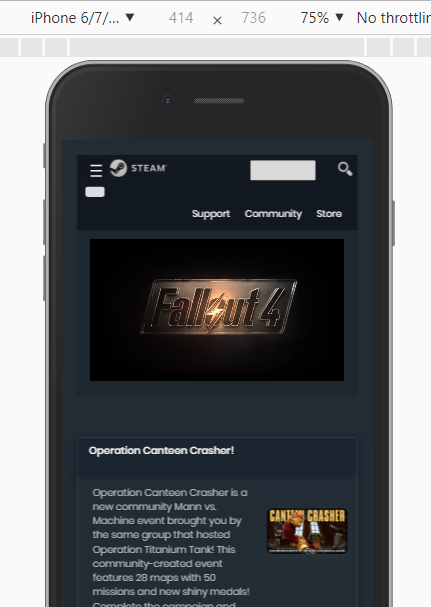
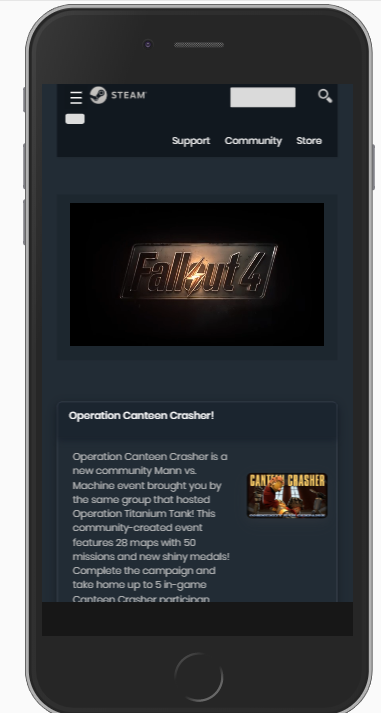
se resolvio y escribieron pruebas unitarias, se aumento responsive de lupa y agrego imagenes al readme

diff --git a/test/data.spec.js b/test/data.spec.js
@@ -2,62 +2,71 @@ require('../src/data.js');
 
 const dataSTEAM = [
       {
-        "gid": "3316234163932872071",
         "title": "Operation Canteen Crasher!",
-        "url": "https://steamstore-a.akamaihd.net/news/externalpost/tf2_blog/3316234163932872071",
-        "img": "https://steamcdn-a.akamaihd.net/steam/news/46099/canteen_crasher_event.jpg?t=1496190709",
-        "is_external_url": true,
         "author": "",
         "contents": "<a href=\"https://steamcommunity.com/groups/potatomvmservers#announcements/detail/2533733726690659777\"> </a> <a href=\"https://steamcommunity.com/groups/potatomvmservers#announcements/detail/2533733726690659777\" target=\"_blank\">Operation Canteen Crasher</a> is a new community Mann vs. Machine event brought you by the same group that hosted <a href=\"https://steamcommunity.com/groups/potatomvmservers#announcements/detail/1663388904536296299\" target=\"_blank\">Operation Titanium Tank</a>! This community-created event features 28 maps with 50 missions and new shiny medals! Complete the campaign and take home up to 5 in-game Canteen Crasher participan...",
         "feedlabel": "TF2 Blog",
         "date": 1542738000,
         "feedname": "tf2_blog",
-        "feed_type": 0,
-        "appid": 440
       },
       {
-        "gid": "2403127338429434053",
         "title": "Team Fortress 2008 throwback mod Steam page removed (Updated)",
-        "url": "https://steamstore-a.akamaihd.net/news/externalpost/pcgamer/2403127338429434053",
-        "img": "https://cdn.mos.cms.futurecdn.net/g248g8rByPSLNRiguYiWrV-650-80.jpg",
-        "is_external_url": true,
         "author": "",
         "contents": "<strong>Update: </strong>The Steam page for XYK&apos;s Team Fortress 2008 mod has been pulled. As reported by <a href=\"https://www.eurogamer.net/articles/2018-10-25-team-fortress-2008-mod-transports-tf2-back-in-time-and-its-coming-to-steam\" target=\"_blank\">Eurogamer</a>, a <a href=\"https://twitter.com/folyqaa/status/1055710419413807105\" target=\"_blank\">screenshot from the project&apos;s Discord</a> (also now shuttered) suggests Valve could not be convinced at this stage that the TF-2008 team has created a mod for the original game, and is &quot;no...",
         "feedlabel": "PC Gamer",
         "date": 1540482175,
         "feedname": "pcgamer",
-        "feed_type": 0,
-        "appid": 440
       },
       {
-        "gid": "2403127338428683883",
         "title": "Team Fortress 2 mod reverts the game to 2008 - and it's coming to Steam",
-        "url": "https://steamstore-a.akamaihd.net/news/externalpost/eurogamer/2403127338428683883",
-        "img": "http://media.steampowered.com/apps/tf2/blog/images/blog_chars_base3.jpg",
-        "is_external_url": true,
         "author": "",
         "contents": "<strong>UPDATE 26/10/18:</strong> All good things must come to an end, but it seems TF2008's end came particularly quickly, as the mod's newly-approved Steam page has now been removed. According to an email screenshot shared on the mod's Discord server, it appears Valve has U-turned on its decision to launch the mod...",
         "feedlabel": "Eurogamer",
         "date": 1540464693,
         "feedname": "eurogamer",
-        "feed_type": 0,
-        "appid": 440
       },
       {
-        "gid": "2403126706534048982",
         "title": "All of Halloween is happening in TF2 s Scream Fortress X",
-        "url": "https://steamstore-a.akamaihd.net/news/externalpost/rps/2403126706534048982",
-        "img": "https://spuf.org/wp-content/uploads/2018/10/screamfortress2018.jpg",
-        "is_external_url": true,
         "author": "Matt Cox",
         "contents": "The thing about special Halloween game modes is that they&#8217;re fun for a round or two, then the novelty wears off. The thing about <a href=\"https://www.rockpapershotgun.com/game/team-fortress-2/\">Team Fortress 2</a>&#8216;s Halloween mode is that there are 18 of them. Ok, so only 5 of those are new &#8211; but you can also play the 13 previous Halloween events, w...",
         "feedlabel": "Rock, Paper, Shotgun",
         "date": 1540295862,
         "feedname": "rps",
-        "feed_type": 0,
-        "appid": 440
       }
     ];
+
+    const sortMostRecent = [
+      {
+        "title": "Operation Canteen Crasher!",
+        "author": "",
+        "contents": "<a href=\"https://steamcommunity.com/groups/potatomvmservers#announcements/detail/2533733726690659777\"> </a> <a href=\"https://steamcommunity.com/groups/potatomvmservers#announcements/detail/2533733726690659777\" target=\"_blank\">Operation Canteen Crasher</a> is a new community Mann vs. Machine event brought you by the same group that hosted <a href=\"https://steamcommunity.com/groups/potatomvmservers#announcements/detail/1663388904536296299\" target=\"_blank\">Operation Titanium Tank</a>! This community-created event features 28 maps with 50 missions and new shiny medals! Complete the campaign and take home up to 5 in-game Canteen Crasher participan...",
+        "feedlabel": "TF2 Blog",
+        "date": 1542738000,
+        "feedname": "tf2_blog",
+      },
+    ];
+
+    const sortAtoZ = [
+      {
+      "title": "All of Halloween is happening in TF2 s Scream Fortress X",
+      "author": "Matt Cox",
+      "contents": "The thing about special Halloween game modes is that they&#8217;re fun for a round or two, then the novelty wears off. The thing about <a href=\"https://www.rockpapershotgun.com/game/team-fortress-2/\">Team Fortress 2</a>&#8216;s Halloween mode is that there are 18 of them. Ok, so only 5 of those are new &#8211; but you can also play the 13 previous Halloween events, w...",
+      "feedlabel": "Rock, Paper, Shotgun",
+      "date": 1540295862,
+      "feedname": "rps",
+    }
+  ];
+
+  const sortZtoA = [
+    {
+      "title": "Team Fortress 2008 throwback mod Steam page removed (Updated)",
+      "author": "",
+      "contents": "<strong>Update: </strong>The Steam page for XYK&apos;s Team Fortress 2008 mod has been pulled. As reported by <a href=\"https://www.eurogamer.net/articles/2018-10-25-team-fortress-2008-mod-transports-tf2-back-in-time-and-its-coming-to-steam\" target=\"_blank\">Eurogamer</a>, a <a href=\"https://twitter.com/folyqaa/status/1055710419413807105\" target=\"_blank\">screenshot from the project&apos;s Discord</a> (also now shuttered) suggests Valve could not be convinced at this stage that the TF-2008 team has created a mod for the original game, and is &quot;no...",
+      "feedlabel": "PC Gamer",
+      "date": 1540482175,
+      "feedname": "pcgamer",
+  }
+];
 
 //tests para función de filtrado
   describe('filterData()', () => {
@@ -65,17 +74,26 @@ const dataSTEAM = [
       expect(typeof filterData).toBe('function');
     });
 
-    it('Debería retornar un arreglo de objetos', () => {
-      expect(window.filterData([]) instanceof Array).toBe(true);
-    });
-
     it('Debería retornar un arreglo de objetos con un lenght = 4', () => {
-      expect((window.filterData(dataSTEAM,'game')).length).toEqual(dataSTEAM.length);
+      expect((window.filterData(dataSTEAM,'game')) instanceof Array).toBe(true);
+      expect((window.filterData(dataSTEAM,'game')).length).toEqual(4);
     });
 
-    it('Debería retornar un arreglo con el objeto que tiene Matt como autor', () => {
+    it('Debería retornar un arreglo con el objeto que tiene el string "operation" como title', () => {
+      expect(window.filterData(dataSTEAM,'operation')).toEqual([dataSTEAM[0]]);
+    });
+
+    it('Debería retornar un arreglo con el objeto que tiene el string "Matt" como autor', () => {
       expect(window.filterData(dataSTEAM,'matt')).toEqual([dataSTEAM[3]]);
       expect(window.filterData(dataSTEAM,'mATt')).toEqual([dataSTEAM[3]]);
+    });
+
+    it('Debería retornar un arreglo con el objeto que tiene el string "tf2_blog" como feedname', () => {
+      expect(window.filterData(dataSTEAM,'tf2_blog')).toEqual([dataSTEAM[0]]);
+    });
+
+    it('Debería retornar un arreglo con el objeto que tiene el string "Shotgun" como feedlabel', () => {
+      expect(window.filterData(dataSTEAM,'SHOTGUN')).toEqual([dataSTEAM[3]]);
     });
   });
 
@@ -85,24 +103,25 @@ const dataSTEAM = [
       expect(typeof sortData).toBe('function');
     });
 
-    it('Debería retornar un arreglo de objetos', () => {
+    it('Debería retornar un arreglo de objetos con un lenght=4', () => {
       expect(window.sortData(dataSTEAM,'least-recent') instanceof Array).toBe(true);
+      expect((window.sortData(dataSTEAM,'most-recent')).length).toEqual(4);
     });
 
-    it('Debería retornar un arreglo de objetos con un lenght = 4', () => {
-      expect((window.sortData(dataSTEAM,'most-recent')).length).toEqual(dataSTEAM.length);
-    });
-/*
-    it('Debería retornar un arreglo con el objeto dataSTEAM[3] en el index 0', () => {
-      expect([window.sortData(dataSTEAM,'a-z')[0]]).toEqual([dataSTEAM[3]]);
+    it('Debería retornar un arreglo con el objeto sortMostRecent[0] en el index=0', () => {
+      expect([window.sortData(dataSTEAM,'most-recent')[0]]).toEqual([sortMostRecent[0]]);
     });
 
-    it('Debería retornar un arreglo con el objeto dataSTEAM[3] en el index 0', () => {
-      expect([window.sortData(dataSTEAM,'z-a')[0]]).toEqual([dataSTEAM[1]]);
-    });*/
+    it('Debería retornar un arreglo con el objeto sortAtoZ[0] en el index=0', () => {
+      expect([window.sortData(dataSTEAM,'a-z')[0]]).toEqual([sortAtoZ[0]]);
+    });
 
-    it('Debería retornar el mensaje de alerta: "Hubo una falla. Por favor, intenta de nuevo."', () => {
-      expect(window.sortData(dataSTEAM,'song')).toEqual(alert('Hubo una falla. Por favor, intenta de nuevo.'));
+    it('Debería retornar un arreglo con el objeto sortZtoA[0] en el index=0', () => {
+      expect([window.sortData(dataSTEAM,'z-a')[0]]).toEqual([sortZtoA[0]]);
+    });
+
+    it('Debería retornar el mensaje el string "Hubo una falla. Por favor, intenta de nuevo."', () => {
+      expect(window.sortData(dataSTEAM,'song')).toEqual('Hubo una falla. Por favor, intenta de nuevo.');
     });
   });
 
@@ -112,7 +131,7 @@ const dataSTEAM = [
       expect(typeof computeStats).toBe('function');
     });
 
-    it('Debería retornar un porcentaje igual al 100%', () => {
-      expect(window.computeStats(dataSTEAM,dataSTEAM)).toEqual(100);
+    it('Debería retornar un porcentaje igual al 25%', () => {
+      expect(window.computeStats(dataSTEAM,sortAtoZ)).toEqual(25);
     });
   });

diff --git a/src/data.js b/src/data.js
@@ -10,7 +10,8 @@ const filterData = (wholeData,str) => {
       return ((v.title.toLowerCase().indexOf(str.toLowerCase()) > -1) ||
         (v.author.toLowerCase().indexOf(str.toLowerCase()) > -1) ||
         (v.contents.toLowerCase().indexOf(str.toLowerCase()) > -1) ||
-        (v.feedlabel.toLowerCase().indexOf(str.toLowerCase()) > -1));
+        (v.feedlabel.toLowerCase().indexOf(str.toLowerCase()) > -1) ||
+        (v.feedname.toLowerCase().indexOf(str.toLowerCase()) > -1));
     });
   };
   // );
@@ -29,18 +30,15 @@ const filterData = (wholeData,str) => {
         sortedData = data.sort((a, b) => {
           if (a.title > b.title) return 1;
           if (a.title < b.title) return -1;
-          return 0;
         });
         break;
       case 'z-a':
         sortedData = (data.sort((a, b) => {
           if (a.title > b.title) return 1;
-          if (a.title < b.title) return -1;
-          return 0;
-        })).reverse();
+          if (a.title < b.title) return -1;})).reverse();
         break;
       default:
-        alert('Hubo una falla. Por favor, intenta de nuevo.');
+        sortedData = 'Hubo una falla. Por favor, intenta de nuevo.';
     }
     return sortedData;
   };

diff --git a/src/index.html b/src/index.html
@@ -95,8 +95,8 @@
                 </div>
 
                 <div id="search-box" class="col-md-6 col-sm-5 align-middle">
-                  <input id="search" class="container-fluid col-md-11 col-sm-9">
-                  <img id="glass" src="http://yaayaaya.com/static/images/search_icon.png">
+                  <input id="search" class="container-fluid col-md-11 col-sm-9 col-search">
+                  <img id="glass" class="col-glass" src="http://yaayaaya.com/static/images/search_icon.png">
                 </div>
 
                 <div id="right-side-nav" class="col-md-auto col-sm-1">
@@ -131,7 +131,7 @@
         <!--seccion de video de introduccion-->
         <div class="row">
           <div class="col-md-12">
-            <section id="video-section" class="margen-video">
+            <section id="video-section" class="margin-video">
               <video preload autoplay loop muted playsinline id="video">
                 <source src="fallout4.mp4" type="video/mp4" />
               </video>

diff --git a/src/style.css b/src/style.css
@@ -281,10 +281,23 @@ a.article:hover {
   border-radius: 2px;
 }
 
+.col-glass {
+  position: relative;
+  min-height: 1px;
+  float: left;
+  }
+
 #glass {
   height: 41px;
   width: 41px;
-  float: right;
+}
+
+.col-glass {
+position: relative;
+min-height: 1px;
+padding-right: 0;
+padding-left: 0;
+float: left;
 }
 
 .nav-link {
@@ -327,10 +340,10 @@ a.article:hover {
   height: 270px;
 }
 
-.margen-video {
+.margin-video {
   position: relative;
   z-index: -100;
-  margin-top: 50px !important;
+  margin-top: 20px !important;
 }
 
 /* ---------------------------------------------------
@@ -356,7 +369,8 @@ a.article:hover {
 
 .box {
   width: 100%;
-  margin-bottom: 15px;
+  margin-top: 1.4rem;
+  margin-bottom: 1.5rem;
 }
 
 .card-header {
@@ -370,7 +384,7 @@ a.article:hover {
 }
 
 .media {
-  margin: 55px 0;
+  margin: 0 0 50px 0;
   border-radius: 7px;
   border: 1px solid #d2d8f32d;
   box-shadow: 0 4px 8px 0 rgba(0, 0, 0, 0.2), 0 6px 20px 0 rgba(0, 0, 0, 0.19);
